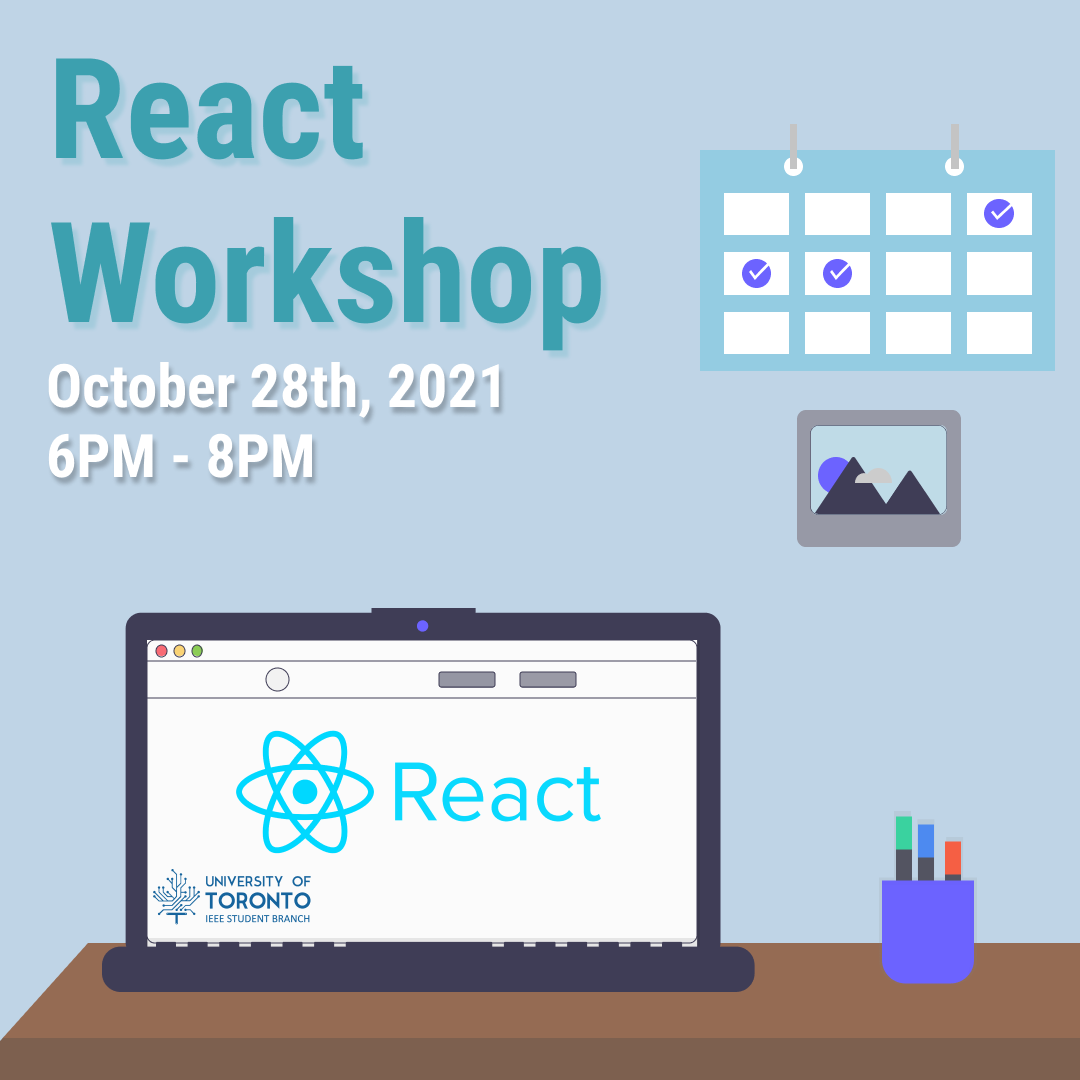
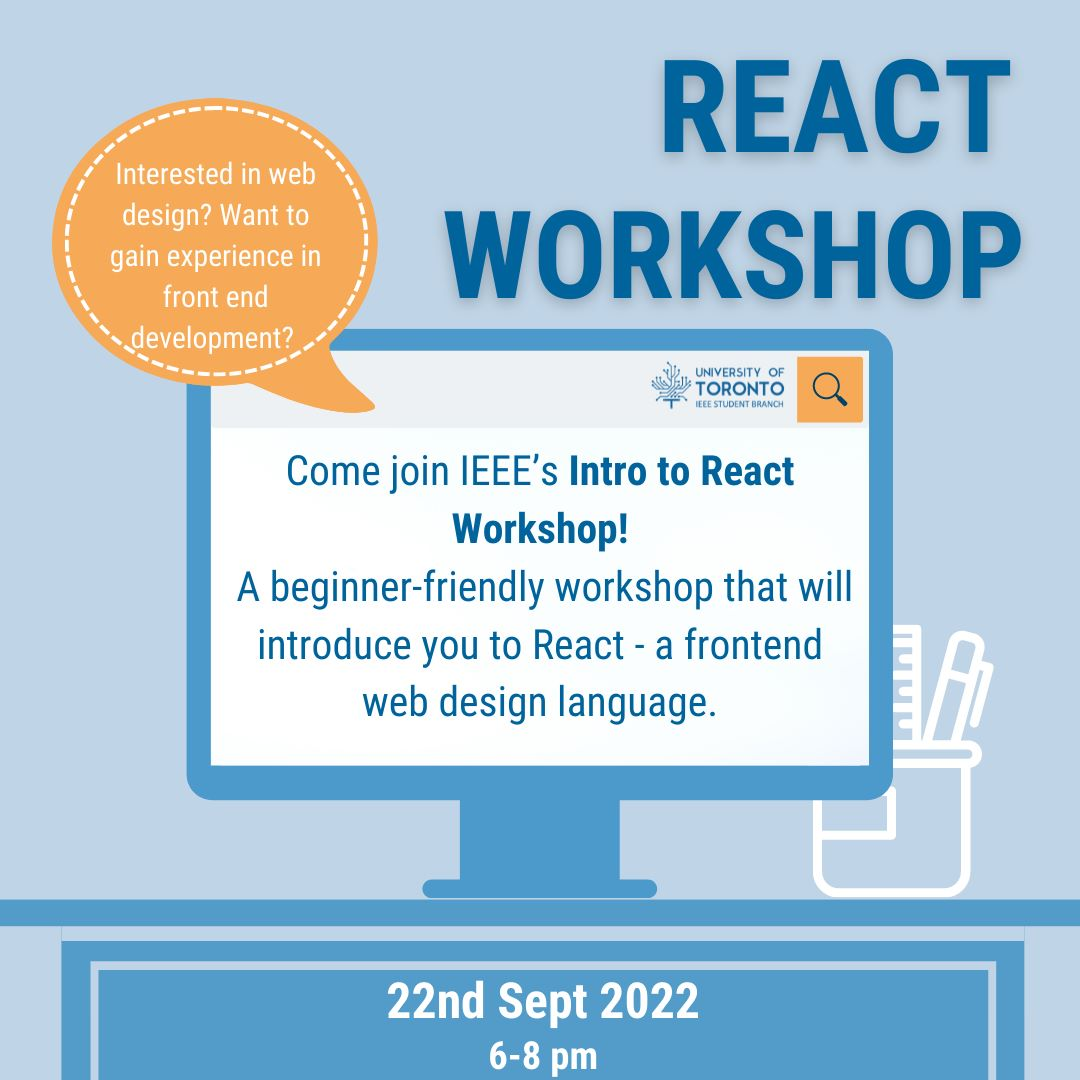
Highlighted TIN and updated React graphic

diff --git a/src/Assets/Lists/allEvents.js b/src/Assets/Lists/allEvents.js
@@ -21,7 +21,7 @@ export const allEvents = [
         EventName: "Technical Interview Night",
         displayDate: "October 5, 2022",
         date: "2022/10/05",
-        highlightEvent: false,
+        highlightEvent: true,
     },
     {
         EventName: "NewHacks",
